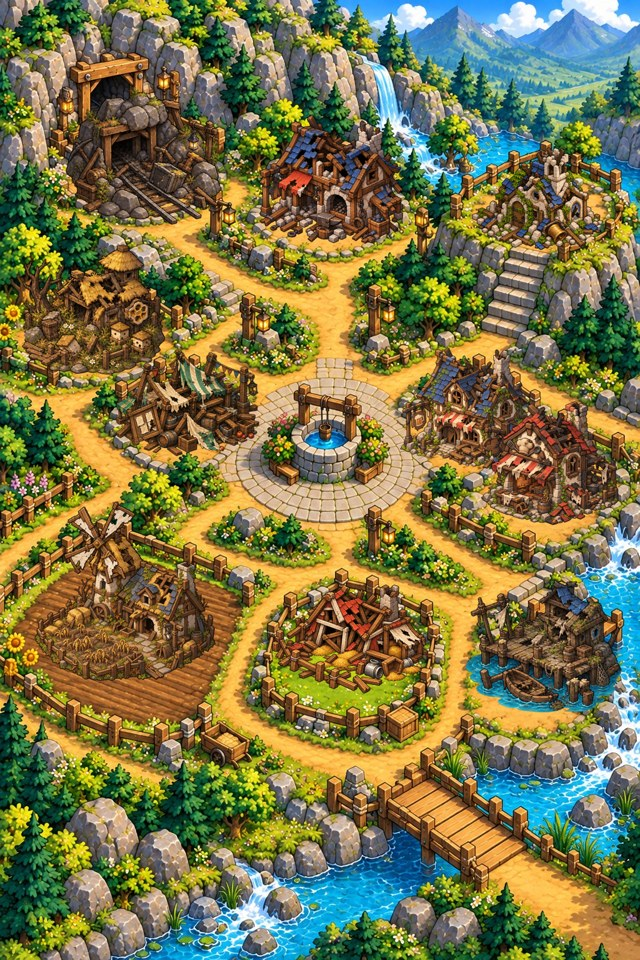
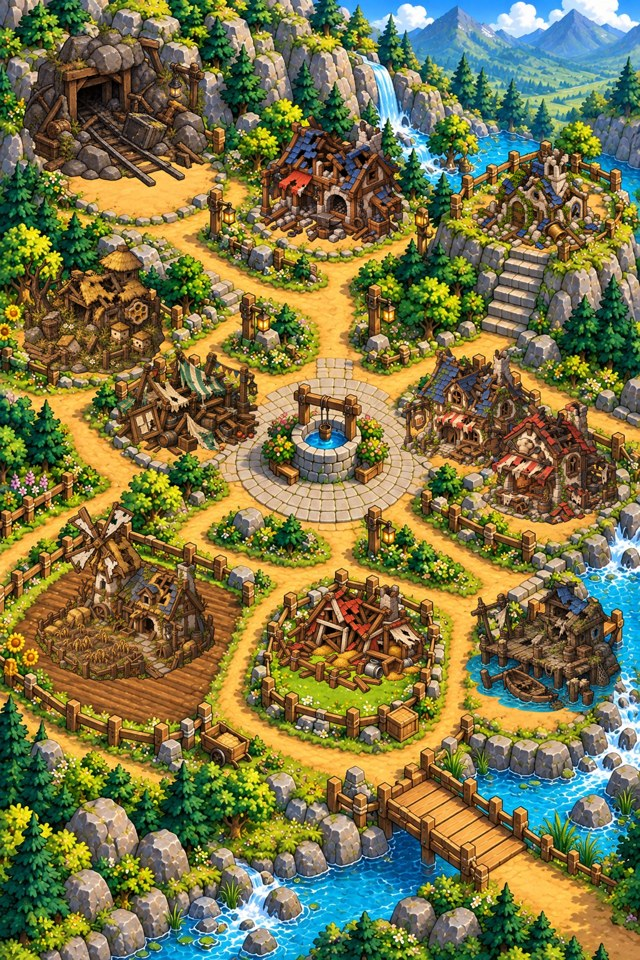
마을 지도: 광산이 지도의 갱도 입구를 덮도록 자리 조정
Claude-Session: https://claude.ai/code/session_01ELGj6be3RhwDD9gW7oxUvT

Changed region(s): [[0.0312, 0.0312, 0.3438, 0.25]]

diff --git a/docs/content/VILLAGE.md b/docs/content/VILLAGE.md
@@ -170,7 +170,7 @@
 - 좌표(지도 그림 픽셀 기준, 건물 그림의 **가운데 아래** 점 · 폭):
 | 건물 | 자리 | 가운데 x | 바닥 y | 폭 |
 |---|---|---|---|---|
-| 광산 | 맨 위 왼쪽(갱도 입구 앞) · **좌우 뒤집어 그리기** | 230 | 360 | 250 |
+| 광산 | 맨 위 왼쪽 **지도에 그려진 갱도 입구 위를 덮어서** · 좌우 뒤집어 그리기 | 185 | 300 | 300 |
 | 대장간 | 맨 위 가운데 | 530 | 390 | 230 |
 | 예배당 | 맨 위 오른쪽 언덕 위(돌계단) | 860 | 400 | 210 |
 | 양봉장 | 왼쪽 위 | 150 | 600 | 230 |
@@ -181,7 +181,7 @@
 | 목장 | 아래 가운데 울타리 풀밭 | 560 | 1110 | 250 |
 | 낚시터 | 아래 오른쪽 개울가(선착장 옆) | 870 | 1140 | 250 |
 - **건물 10채 그림 모두 들어옴(2026-10-23)**. 실제 그림으로 올린 시험: `art/source/village/village_layout_built.jpg`(완성) · `village_layout_ruin.jpg`(폐허)
-- **광산은 좌우를 뒤집어 그린다**(레일이 지도 갱도 입구처럼 오른쪽 아래로 뻗게). 그림 파일은 그대로 두고 좌표표에 `flip:1`로 처리(기존 가로 마을 화면·다른 곳은 그대로).
+- **광산은 좌우를 뒤집고, 지도 그림에 이미 그려진 갱도 입구를 덮는 자리에 크게 그린다**(그래야 입구가 두 개로 보이지 않음). 광산 앞 흙 빈터는 「광산 앞마당」으로 비워 둔다(레일이 앞마당 쪽으로 이어짐). 폐허 그림도 같은 자리라 지도 입구가 늘 가려짐. 그림 파일은 그대로 두고 좌표표에 `flip:1`로 처리.
 - 그리는 순서: 바닥 y가 작은 건물부터(깊이 순서). 여관·식당은 가까우니 겹침을 화면에서 확인해 폭·위치를 조금 조정.
 - 화면 폭 390에서 지도 배율 약 0.38 → 건물 한 채 약 80~110px, 지도 높이 약 585px.
 
